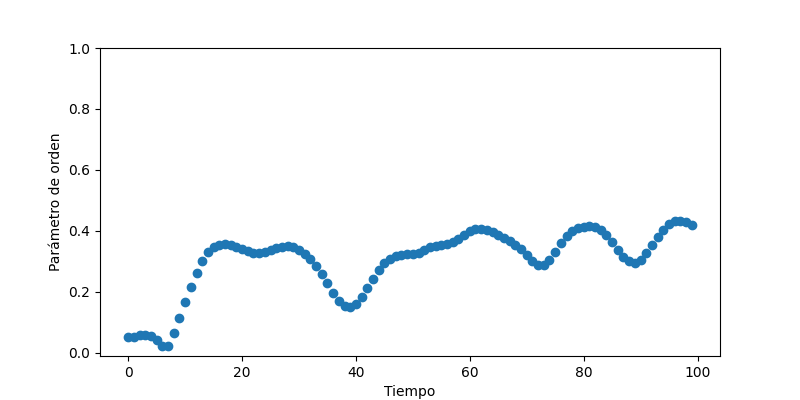
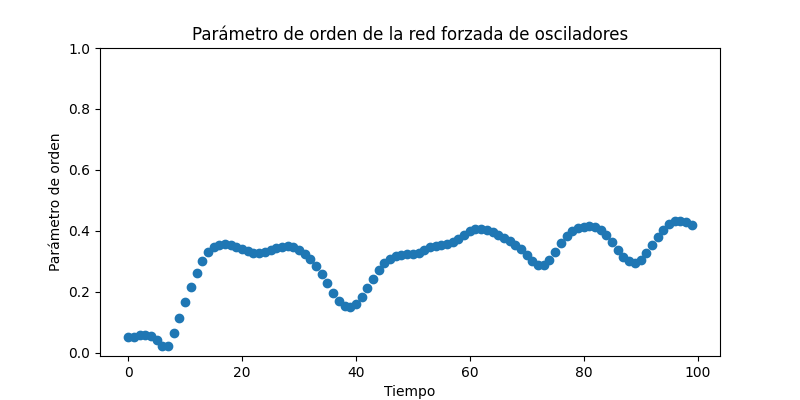
Added title to order parameter plot

Changed region(s): [[0.2188, 0.06, 0.7812, 0.12]]

diff --git a/kuramoto_forced/forcing_population_implementation.py b/kuramoto_forced/forcing_population_implementation.py
@@ -47,7 +47,7 @@ model = Kuramoto(coupling=coupl, dt=dt, T=T,
 act_mat = model.run(adj_mat=graph)
 
 ## plot of order parameter
-order_parameter_fig, ax = plot_phase_coherence(act_mat)
+order_parameter_fig, ax = plot_phase_coherence(act_mat, title='Parámetro de orden de la red forzada de osciladores')
 order_parameter_fig.savefig('figs/forced_pop_order_parameter.png')
 plt.close(order_parameter_fig)
 
